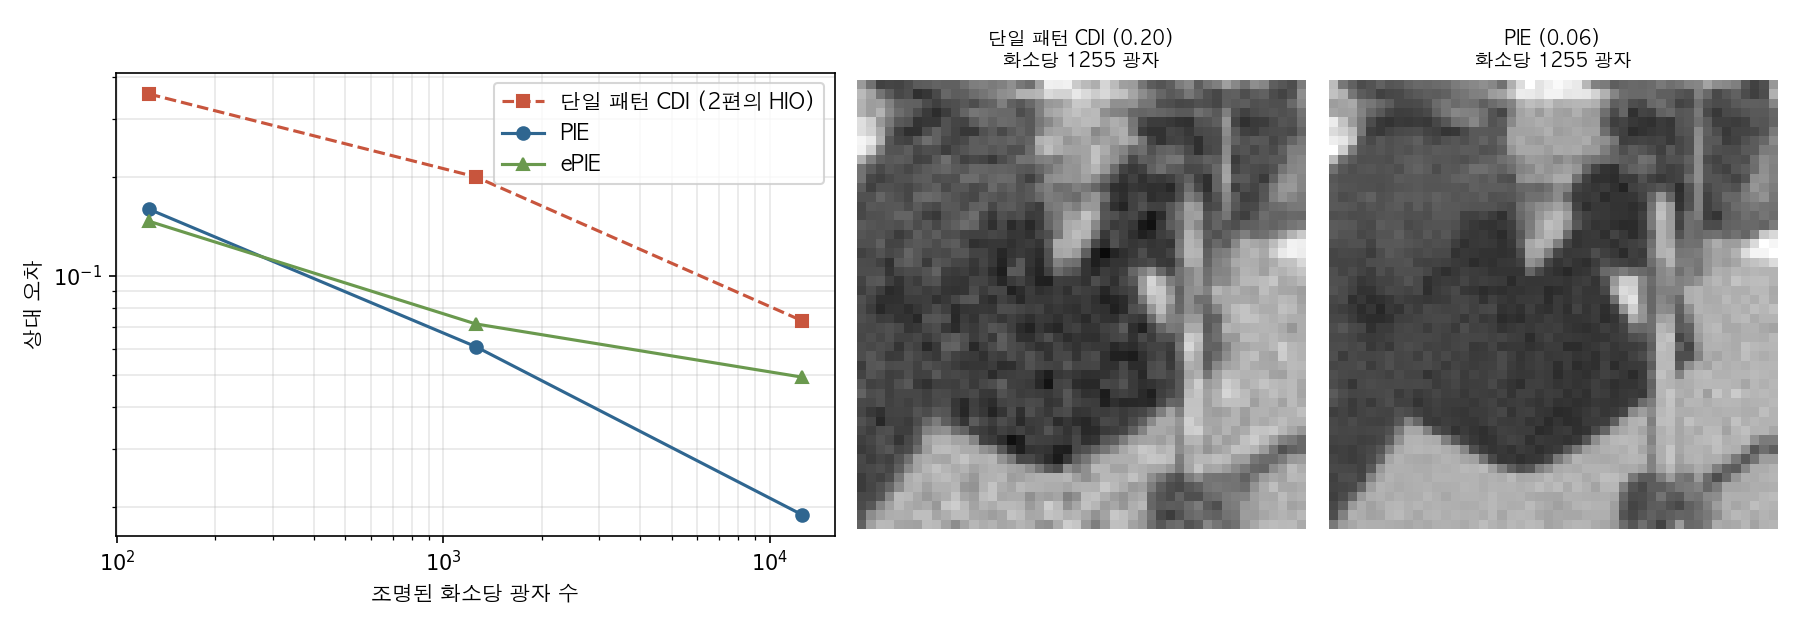
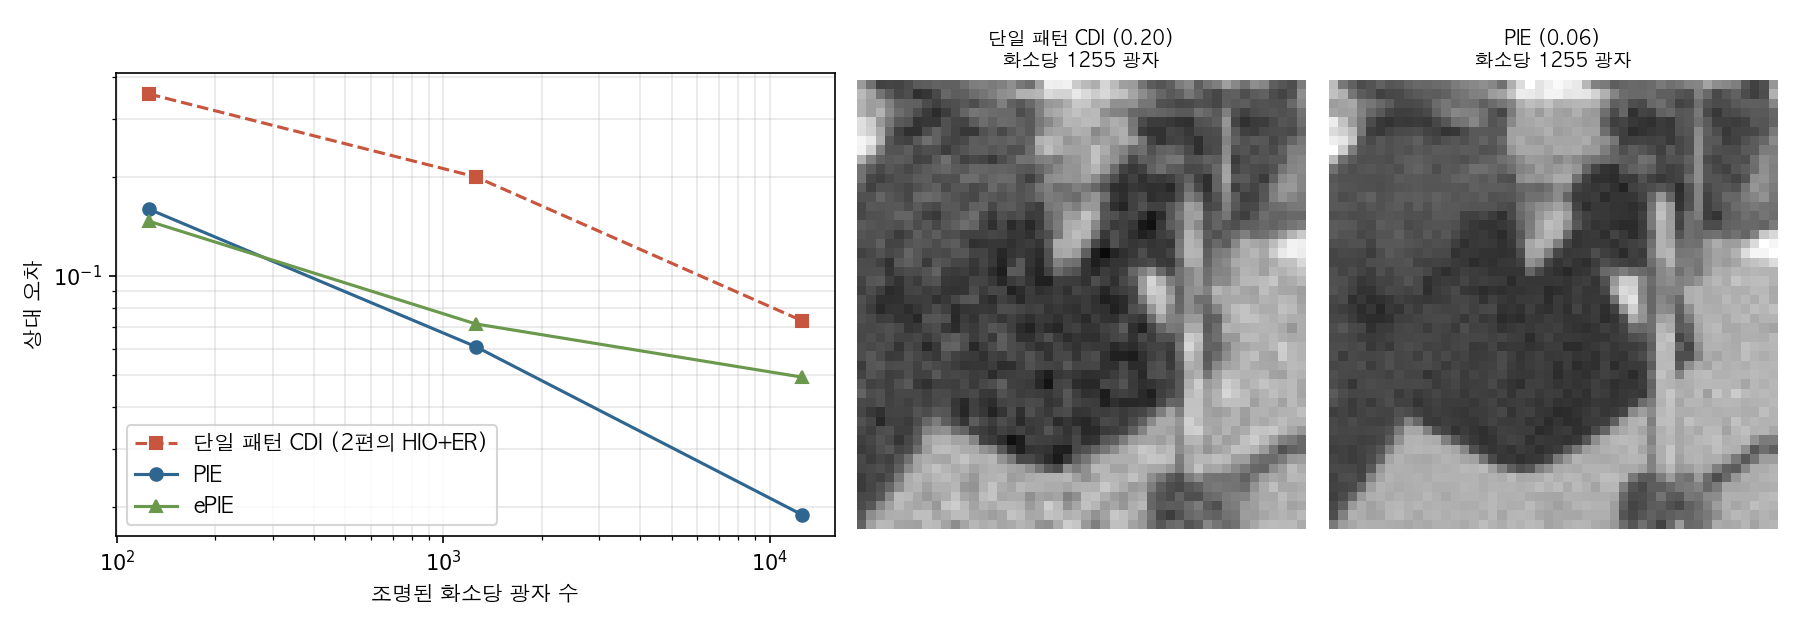
fix(post): ptycho-overlap-pie-epie — 그림 다시 생성(범례·라벨·축 표기, 그림 속 캡션 제거)
그림을 다시 그려야 고칠 수 있던 경미 항목을 고쳤다. 데이터와 계산은 바꾸지 않았다.

근거: _references/ptycho-overlap-pie-epie/audit-20261015.md (B 경미), 목록 _references/_fig-queue-20261015.md
계산이 16~25분 걸려 launchd 일회성 작업으로 실행했다(taskpolicy -b, nice 15). 본문 수치는 다시 계산해도 같다.

Changed region(s): [[0.0622, 0.6635, 0.28, 0.8444], [0.28, 0.1206, 0.4667, 0.3016], [0.2489, 0.8143, 0.28, 0.8444]]

diff --git a/_code/ptycho-overlap-pie-epie/generate_figures.py b/_code/ptycho-overlap-pie-epie/generate_figures.py
@@ -32,7 +32,7 @@ LABELS = {
         "init": "초기 프로브 (원판)", "found": "ePIE가 찾은 프로브", "true": "참 프로브",
         "amp": "진폭", "phase": "위상",
         "fig5": "그림5. ePIE는 크기만 대충 맞는 원판에서 출발해 프로브의 무늬와 위상까지 찾는다",
-        "dose_ax": "조명된 화소당 광자 수", "l_cdi": "단일 패턴 CDI (2편의 HIO)",
+        "dose_ax": "조명된 화소당 광자 수", "l_cdi": "단일 패턴 CDI (2편의 HIO+ER)",
         "c_cdi": "단일 패턴 CDI", "c_pie": "PIE", "photons": "화소당 {} 광자",
         "fig6": "그림6. 같은 선량이면 겹쳐 찍은 쪽의 오차가 작다 (PIE 기준 2~4배)",
     },
@@ -54,7 +54,7 @@ LABELS = {
         "init": "Initial probe (disc)", "found": "Probe found by ePIE", "true": "True probe",
         "amp": "amplitude", "phase": "phase",
         "fig5": "Fig 5. Starting from a disc of roughly the right size, ePIE recovers the probe's fringes and phase",
-        "dose_ax": "Photons per illuminated pixel", "l_cdi": "Single-pattern CDI (HIO, Post 2)",
+        "dose_ax": "Photons per illuminated pixel", "l_cdi": "Single-pattern CDI (HIO+ER, Post 2)",
         "c_cdi": "Single-pattern CDI", "c_pie": "PIE", "photons": "{} photons/pixel",
         "fig6": "Fig 6. At equal dose, overlapping measurements give a smaller error (2-4 times, for PIE)",
     },
